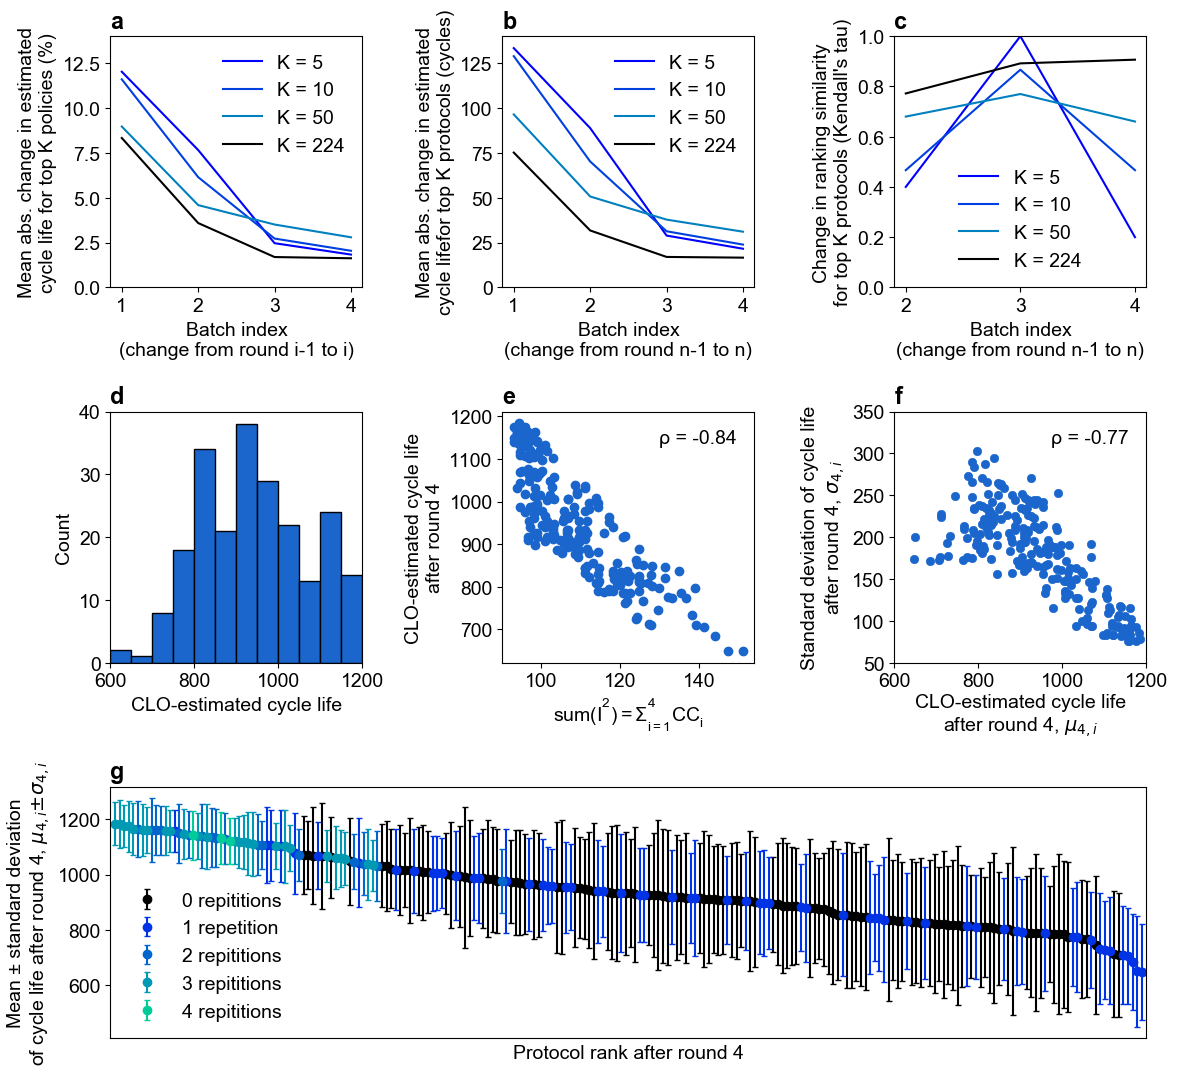
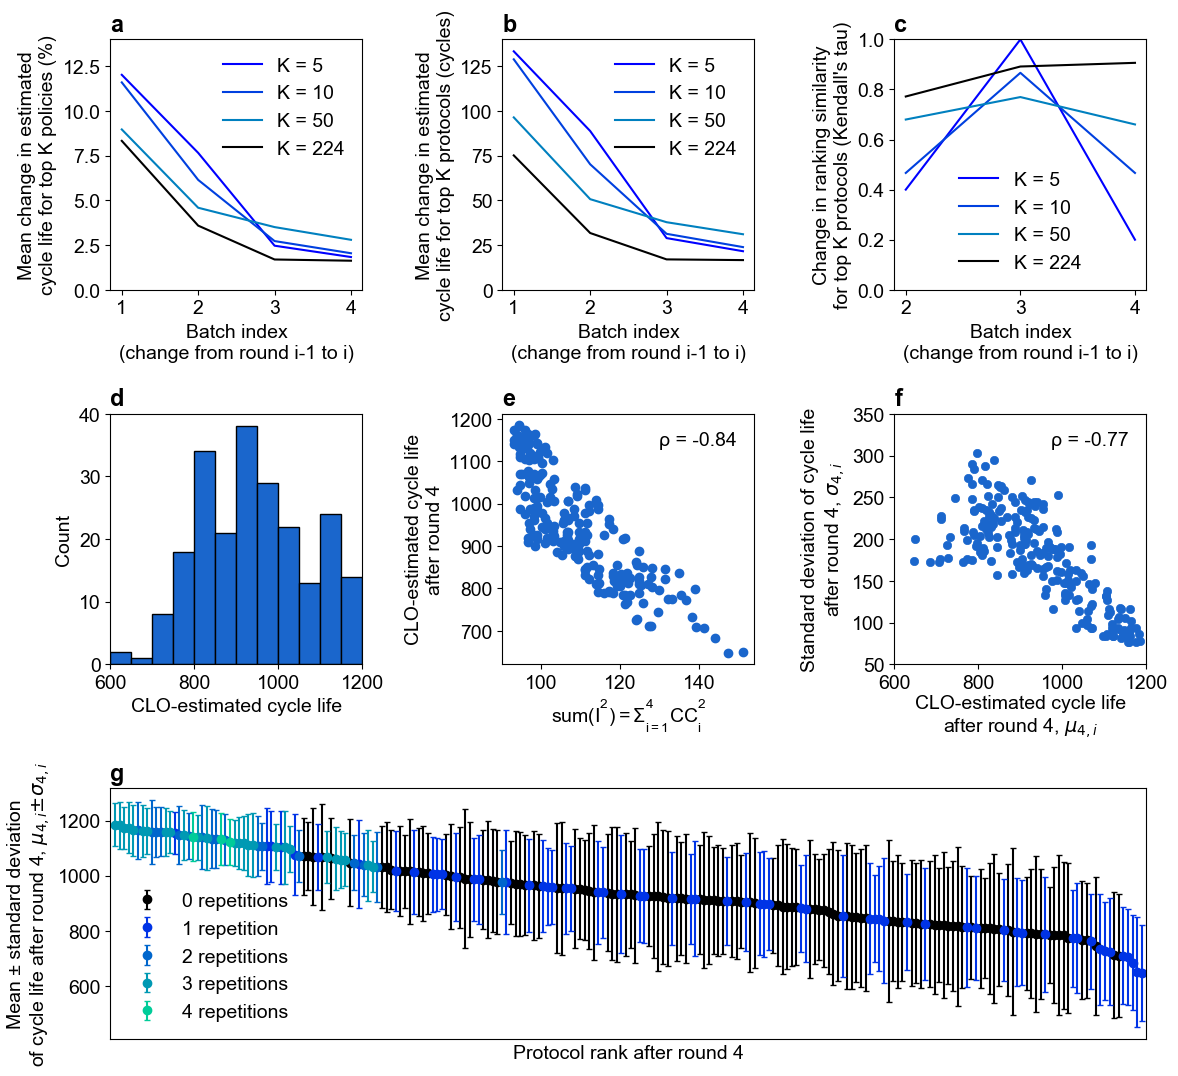
typos in misc results

diff --git a/figures/SI/misc_results/misc_results_v2.py b/figures/SI/misc_results/misc_results_v2.py
@@ -112,7 +112,7 @@ for i in range(len(top_K_pols_list)-1):
     ax0.plot(batches,mean_per_change_topk[i])
 ax0.plot(batches,mean_per_change_topk[i+1],'k')
 ax0.set_xlabel('Batch index\n(change from round i-1 to i)')
-ax0.set_ylabel('Mean abs. change in estimated\ncycle life for top K policies (%)')
+ax0.set_ylabel('Mean change in estimated\ncycle life for top K policies (%)')
 ax0.set_ylim((0,14))
 ax0.set_xticks(np.arange(1, 5, step=1))
 ax0.legend(legend,frameon=False)
@@ -122,8 +122,8 @@ ax1.set_color_cycle([cm(1.*i/len(top_K_pols_list)) for i in range(len(top_K_pols
 for i in range(len(top_K_pols_list)-1):
     ax1.plot(batches,mean_change_topk[i])
 ax1.plot(batches,mean_change_topk[i+1],'k')
-ax1.set_xlabel('Batch index\n(change from round n-1 to n)')
-ax1.set_ylabel('Mean abs. change in estimated\ncycle lifefor top K protocols (cycles)')
+ax1.set_xlabel('Batch index\n(change from round i-1 to i)')
+ax1.set_ylabel('Mean change in estimated\ncycle life for top K protocols (cycles)')
 ax1.set_ylim((0,140))
 ax1.set_xticks(np.arange(1, 5, step=1))
 ax1.legend(legend,frameon=False)
@@ -133,7 +133,7 @@ ax2.set_color_cycle([cm(1.*i/len(top_K_pols_list)) for i in range(len(top_K_pols
 for i in range(len(top_K_pols_list)-1):
     ax2.plot(batches[1:],tau[i])
 ax2.plot(batches[1:],tau[i+1],'k')
-ax2.set_xlabel('Batch index\n(change from round n-1 to n)')
+ax2.set_xlabel('Batch index\n(change from round i-1 to i)')
 ax2.set_ylabel('Change in ranking similarity\nfor top K protocols (Kendall\'s tau)')
 ax2.set_ylim((0,1))
 ax2.set_xticks(np.arange(2, 5, step=1))
@@ -159,7 +159,7 @@ policies = np.asarray(policies) # cast to numpy array
 ## MODELS
 values = np.sum(policies**2,axis=1)
     
-xlabel_mod = r'$\mathdefault{sum(I^2)=\Sigma_{i=1}^{4}CC_i}$'
+xlabel_mod = r'$\mathdefault{sum(I^2)=\Sigma_{i=1}^{4}CC_i^2}$'
 leglabel = 'ρ = {:.2}'.format(pearsonr(values,mean)[0])
 
 ax4.plot(values,mean,'o',label=leglabel,color=[0.1,0.4,0.8])
@@ -196,7 +196,7 @@ for k, pol in enumerate(param_space[top_pol_idx]):
 colors = [cm(1.*i/num_batches) for i in range(num_batches)]
 colors[0] = (0,0,0,1)
 
-leg = [str(i)+" repititions" for i in np.arange(num_batches)]
+leg = [str(i)+" repetitions" for i in np.arange(num_batches)]
 leg[1] = "1 repetition"
 
 for k in np.arange(num_batches):

diff --git a/figures/fig4/fig4_v4.py b/figures/fig4/fig4_v4.py
@@ -256,7 +256,7 @@ ax5.annotate('τ = {:.2}'.format(tau),(9.5,0.5),horizontalalignment='right')
 
 
 def make_legend(ax):
-    ax.legend([(p[1], p[2], p[3]),(p[0],p[5],p[6],p[7]),(p[4],p[8])], 
+    ax.legend([(p[1], p[2], p[3]),(p[0],p[5],p[6],p[7]),(p[4],p[8])],
                   ['CLO top 3', 'Lit-inspired', 'Other'],
                   numpoints=1, handlelength=2.5, frameon=False,
                    handler_map={tuple: HandlerTuple(ndivide=None)})
